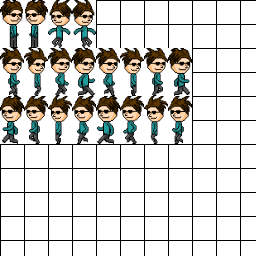
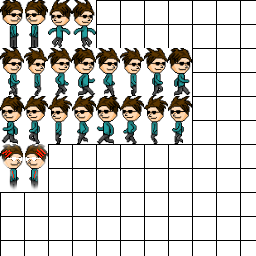
Added Fredy the Ghost

Changed region(s): [[0.0, 0.5625, 0.1875, 0.75]]

diff --git a/src/graphics/Textures.java b/src/graphics/Textures.java
@@ -14,6 +14,7 @@ public class Textures
 	public BufferedImage[] enemyTiles = new BufferedImage[4];	// Niz textura Enemy-a
 	public BufferedImage[] bossTiles = new BufferedImage[2];	// Niz textura Boss-a
 	public BufferedImage[] batTiles = new BufferedImage[4];		// Niz tekstura Bat-a
+	public BufferedImage[] fredyTiles = new BufferedImage[2]; 	// Niz teksutra za Fredy-a
 	public BufferedImage lava = null;							// Tekstura Water-a
 	public BufferedImage spikes = null;							// Textura za Spike
 	public BufferedImage torch = null;							// Textura za Torch
@@ -85,5 +86,8 @@ public class Textures
 		playerTiles[15] = playerSheet.grabImage(6, 3, 24, 48);
 		playerTiles[16] = playerSheet.grabImage(7, 3, 24, 48);
 		playerTiles[17] = playerSheet.grabImage(8, 3, 24, 48);
+		
+		fredyTiles[0] = playerSheet.grabImage(1, 4, 24, 48);
+		fredyTiles[1] = playerSheet.grabImage(2, 4, 24, 48);
 	}
 }

diff --git a/src/objects/Fredy.java b/src/objects/Fredy.java
@@ -1,0 +1,56 @@
+package objects;
+
+import java.awt.Graphics;
+
+import graphics.Textures;
+import sound.AudioPlayer;
+
+public class Fredy 
+{
+	private final int WIDTH, HEIGHT;
+	private float x, y, velX, velY;
+	private Textures t;
+	private AudioPlayer sfxGhost;
+	
+	public Fredy(float x, float y, Textures t)
+	{
+		this.x = x;
+		this.y = y;
+		this.t = t;
+		
+		WIDTH = 24;
+		HEIGHT = 48;
+		
+		sfxGhost = new AudioPlayer("/ghost.mp3");
+	}
+	
+	public void tick()
+	{
+		
+	}
+	
+	public void render(Graphics g)
+	{
+		
+	}
+	
+	public float getX()
+	{
+		return x;
+	}
+	
+	public float getY()
+	{
+		return y;
+	}
+	
+	public void setX(float x)
+	{
+		this.x = x;
+	}
+	
+	public void setY(float y)
+	{
+		this.y = y;
+	}
+}
